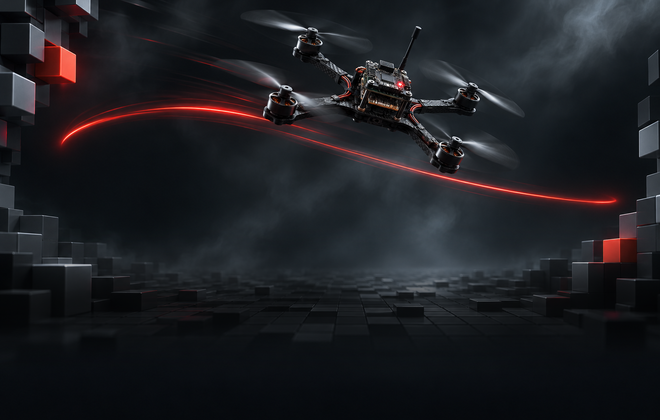
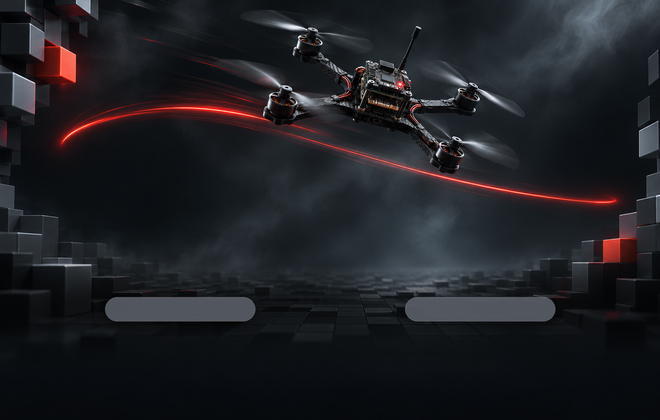
Installer: label nameplates on the DMG background; version 0.3.1

Changed region(s): [[0.6061, 0.681, 0.8485, 0.7738], [0.1515, 0.681, 0.3939, 0.7738]]

diff --git a/sdk/python/anet_relay_client.py b/sdk/python/anet_relay_client.py
@@ -29,7 +29,7 @@ from collections.abc import Callable, Iterator
 from typing import Any
 
 __all__ = ["DEFAULT_BASE", "RelayClient", "RelayError"]
-__version__ = "0.3.0"
+__version__ = "0.3.1"
 
 DEFAULT_BASE = os.environ.get("RELAY_API", "http://127.0.0.1:8765")
 API = "/api/v1"

diff --git a/mcp/relay_mcp_common.py b/mcp/relay_mcp_common.py
@@ -42,7 +42,7 @@ __all__ = [
     "schema_tool",
 ]
 
-SERVER_VERSION = "0.3.0"
+SERVER_VERSION = "0.3.1"
 PROTOCOL_VERSIONS = ("2025-11-25", "2025-06-18", "2025-03-26", "2024-11-05")
 SESSION_ERRORS = ("session_expired", "session_required", "auth_required")
 

diff --git a/backend/relay/config.py b/backend/relay/config.py
@@ -16,7 +16,7 @@ from dataclasses import asdict, dataclass, field
 from pathlib import Path
 from typing import Any, ClassVar
 
-VERSION = "0.3.0"
+VERSION = "0.3.1"
 APP_NAME = "ANet Relay"
 API_PREFIX = "/api/v1"
 

diff --git a/CHANGELOG.md b/CHANGELOG.md
@@ -5,6 +5,15 @@ All notable changes to ANet Relay are documented in this file. The format follow
 [Semantic Versioning](https://semver.org/). Each release section is published as the
 GitHub Release notes for its tag.
 
+## [0.3.1] - 2026-11-07
+
+### Fixed
+
+- macOS installer window: the icon labels sit on graphite nameplates, so they
+  read clearly whether Finder draws them black (light appearance) or white
+  (dark appearance). In 0.3.0 the black labels of the light appearance were
+  hard to read on the dark background.
+
 ## [0.3.0] - 2026-11-07
 
 A director's-cut opening, bench procedures that calibrate and test an aircraft
@@ -310,6 +319,8 @@ xattr -dr com.apple.quarantine "/Applications/ANet Relay.app"
 - Stick timing has been verified on simulators and fake aircraft; check stick
   directions with the propellers removed before the first flight of each aircraft.
 
+[0.3.1]: https://github.com/ANetResearch/ANet-Relay/releases/tag/v0.3.1
+[0.3.0]: https://github.com/ANetResearch/ANet-Relay/releases/tag/v0.3.0
 [0.2.1]: https://github.com/ANetResearch/ANet-Relay/releases/tag/v0.2.1
 [0.2.0]: https://github.com/ANetResearch/ANet-Relay/releases/tag/v0.2.0
 [0.1.0]: https://github.com/ANetResearch/ANet-Relay/releases/tag/v0.1.0
